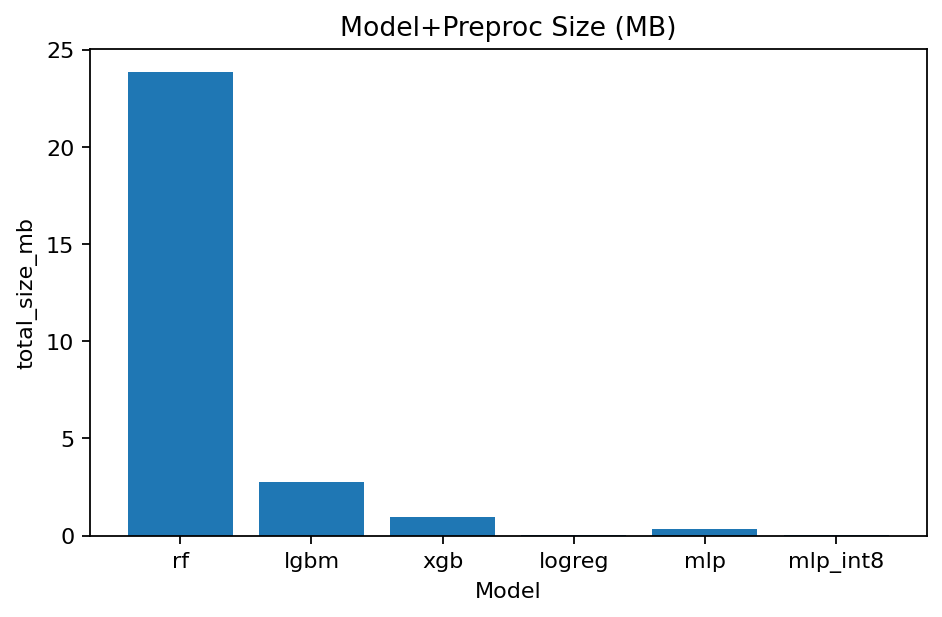
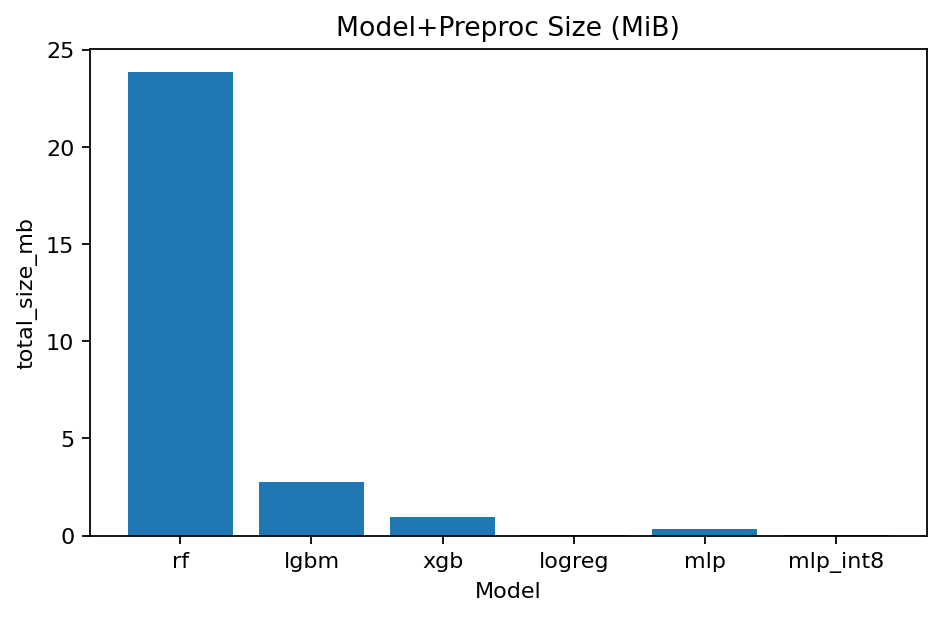
MB -> MiB in total_size_mb.png

Changed region(s): [[0.3386, 0.0, 0.7389, 0.0616]]

diff --git a/scripts/compare_models_mc.py b/scripts/compare_models_mc.py
@@ -417,7 +417,7 @@ def main():
     plot_bar(df, "roc_auc_macro", os.path.join(summary_dir, "roc_auc_macro.png"), "ROC AUC (macro) by Model")
     plot_bar(df, "pr_auc_micro", os.path.join(summary_dir, "pr_auc_micro.png"), "PR AUC (micro) by Model")
     plot_bar(df, "pr_auc_macro", os.path.join(summary_dir, "pr_auc_macro.png"), "PR AUC (macro) by Model")
-    plot_bar(df, "total_size_mb", os.path.join(summary_dir, "total_size_mb.png"), "Model+Preproc Size (MB)")
+    plot_bar(df, "total_size_mb", os.path.join(summary_dir, "total_size_mb.png"), "Model+Preproc Size (MiB)")
 
     pct = per_class_table(args.models_dir, args.models)
     if not pct.empty:

diff --git a/scripts/compare_models.py b/scripts/compare_models.py
@@ -411,7 +411,7 @@ def main():
     if df["fn"].notna().any():
         plot_bar(df, "fn", os.path.join(summary_dir, "fn.png"), "False Negatives by Model")
     if df["fn"].notna().any():
-        plot_bar(df, "total_size_mb", os.path.join(summary_dir, "total_size_mb.png"),"Model+Preproc Size (MB)")
+        plot_bar(df, "total_size_mb", os.path.join(summary_dir, "total_size_mb.png"),"Model+Preproc Size (MiB)")
 
     if args.benchmark:
         bdf = benchmark_inference(args.models_dir, args.csv, args.models, sample_size=args.sample_size, num_runs=args.num_runs)
